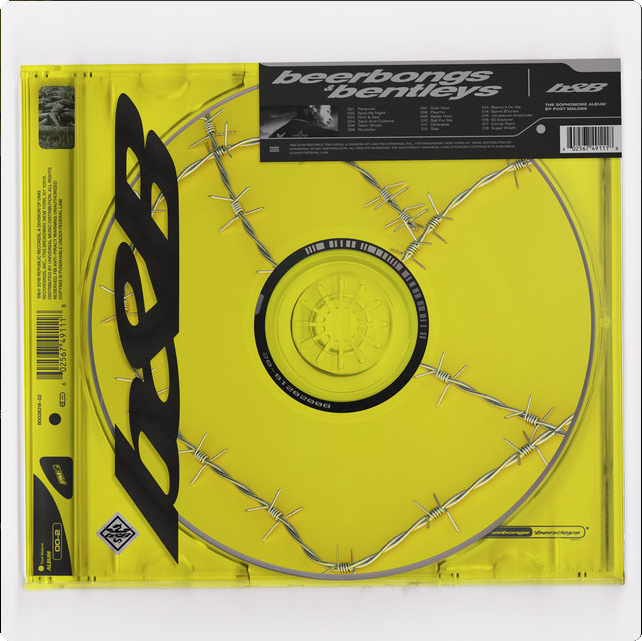
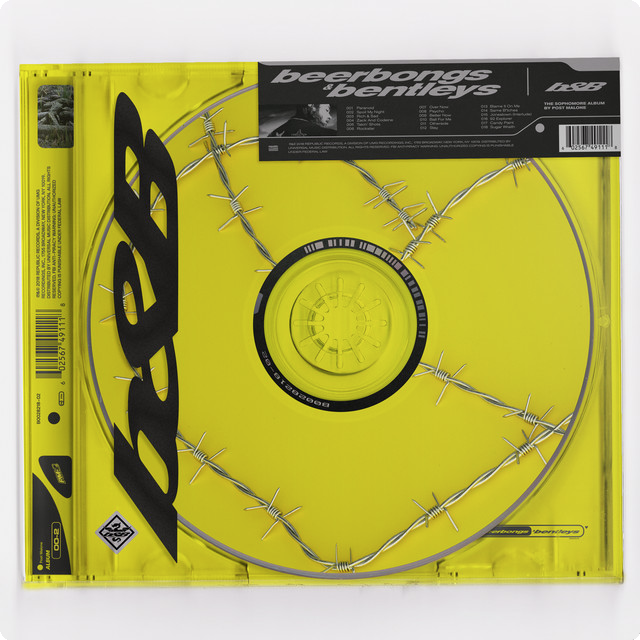
change coordinates

diff --git a/extract_cover.py b/extract_cover.py
@@ -3,12 +3,12 @@ from PIL import Image, ImageDraw, ImageGrab
 # Take a full screenshot
 screenshot = ImageGrab.grab()
 
-square_size = 641.5
+square_size = 640.5
 
 # Coordinates for the center crop
 screen_width, screen_height = screenshot.size  # For 1920x1080 resolution
-left = 639.25
-top = 159
+left = 639.5
+top = 159.5
 right = left + square_size
 bottom = top + square_size
 
